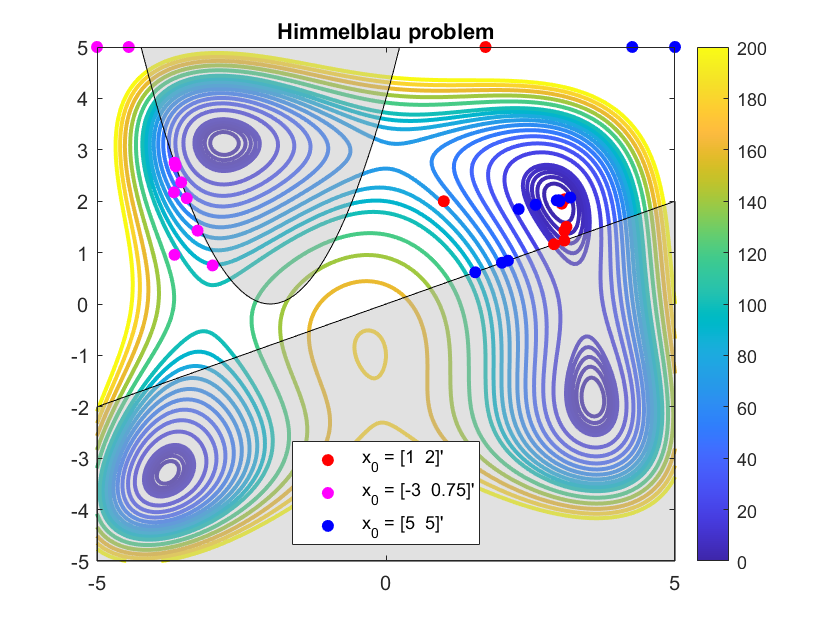
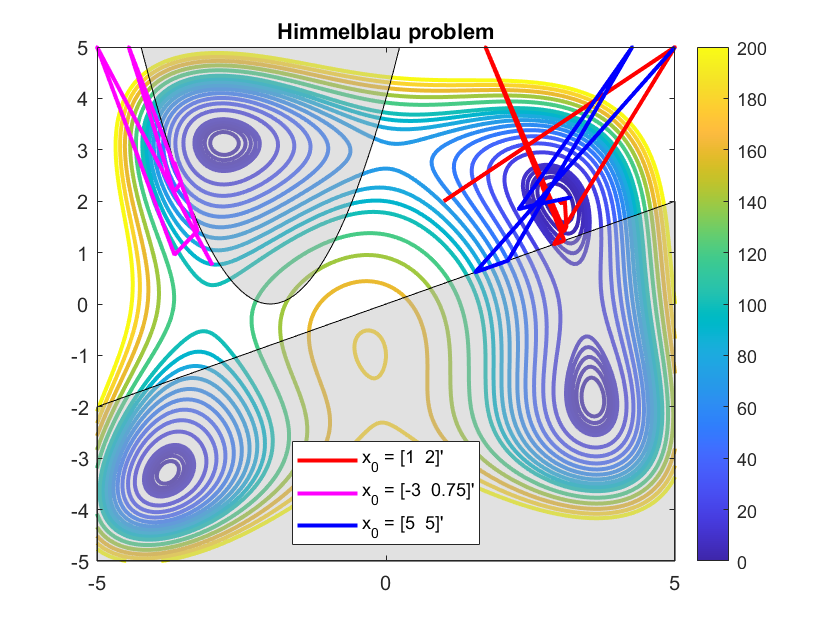
More plots

diff --git a/Exam/Problem4/SQP_BFGS_LineSearch.m b/Exam/Problem4/SQP_BFGS_LineSearch.m
@@ -17,7 +17,7 @@ function [x, stats] = SQP_BFGS_LineSearch(objective, const, x0, lambda0)
 % Solver settings and info
 maxit = 100*length(x0);
 tol   = 1.0e-5;
-options = optimoptions('quadprog', 'Display', 'none');
+options = optimoptions('quadprog','Algorithm','active-set', 'Display', 'none');
 
 % Initializing statistics         
 stats.x(:, 1) = x0;
@@ -28,6 +28,7 @@ n = length(x);
 lambda = lambda0;
 B = eye(n);
 it = 0;
+p = ones(length(x),1);
 
 % Evaluating function and constraints
 [f, df] = objective(x);
@@ -43,7 +44,7 @@ while ((it < maxit) && (norm(F(1:length(x)),'inf') > tol))
     it = it + 1;
     
     % Solving quadratic sub-problem
-    [sols, ~, ~, ~, lambda_qp] = quadprog(B, df, -dc', c, [], [], [], [], [], options);
+    [sols, ~, ~, ~, lambda_qp] = quadprog(B, df, -dc', c, [], [], [], [], p, options);
     
     % Backtracking line search
     plambda = lambda_qp.ineqlin - lambda;

diff --git a/Exam/Problem4/Driver4.m b/Exam/Problem4/Driver4.m
@@ -232,8 +232,8 @@ hold on
     fill([x x(end) x(1)],[yc2 -5 -5],[0.7 0.7 0.7],'facealpha',0.4);
     xlim([-5,5]);
     ylim([-5,5]);
-    pl1 = scatter(stats_s1.x(1, :), stats_s1.x(2, :), 'r', 'filled');
-    pl2 = scatter(stats_s2.x(1, :), stats_s2.x(2, :), 'm', 'filled');
-    pl3 = scatter(stats_s3.x(1, :), stats_s3.x(2, :), 'b', 'filled');
+    pl1 = plot(stats_s1.x(1, :), stats_s1.x(2, :), 'r', 'Linewidth', 2);
+    pl2 = plot(stats_s2.x(1, :), stats_s2.x(2, :), 'm', 'Linewidth', 2);
+    pl3 = plot(stats_s3.x(1, :), stats_s3.x(2, :), 'b', 'Linewidth', 2);
     legend({'', '', '', 'x_0 = [1  2]''', 'x_0 = [-3  0.75]''', 'x_0 = [5  5]'''}, 'location', 'south');
 hold off
